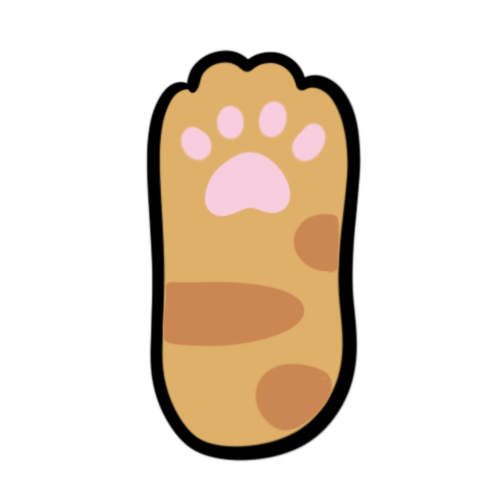
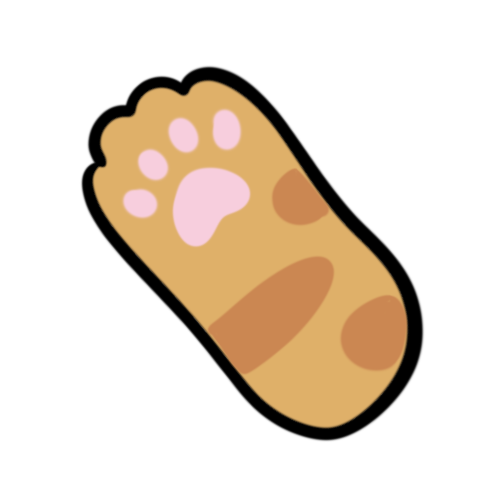
New Cursor

Changed region(s): [[0.15, 0.09, 0.87, 0.93]]

diff --git a/Assets/Assets/Scripts/Cursors/CursorManager.cs b/Assets/Assets/Scripts/Cursors/CursorManager.cs
@@ -1,0 +1,63 @@
+using System.Linq;
+using UnityEngine;
+
+namespace Assets.Scripts.Cursors
+{
+    public class CursorManager : MonoBehaviour
+    {
+        public static CursorManager Instance { get; private set; }
+
+        [SerializeField] private CustomCursor[] cursors;
+        
+        private CustomCursorID _currentCursor = CustomCursorID.Default;
+        private bool _cursorHidden;
+
+        private void Awake()
+        {
+            if (Instance && Instance != this)
+            {
+                Destroy(gameObject);
+                return;
+            }
+            
+            Instance = this;
+        }
+
+        public void SetCursor(CustomCursorID id)
+        {
+            if (_currentCursor == id) return;
+
+            switch (id)
+            {
+                case CustomCursorID.Hidden:
+                    HideCursor();
+                    return;
+                default:
+                    var cursor = cursors.FirstOrDefault(c => c.id == id);
+                    if (cursor == null) return;
+
+                    _currentCursor = id;
+                    Cursor.SetCursor(cursor.texture, cursor.hotspot, CursorMode.Auto);
+                    ShowCursor();
+                    return;
+            }
+        }
+        
+        private void HideCursor()
+        {
+            if (_cursorHidden) return;
+            
+            _currentCursor = CustomCursorID.Hidden;
+            _cursorHidden = true;
+            Cursor.visible = false;
+        }
+
+        private void ShowCursor()
+        {
+            if (!_cursorHidden) return;
+            
+            _cursorHidden = false;
+            Cursor.visible = true;
+        }
+    }
+}

diff --git a/Assets/Assets/Scripts/Aquarium/FishTanks/Interaction/FishInteractionController.cs b/Assets/Assets/Scripts/Aquarium/FishTanks/Interaction/FishInteractionController.cs
@@ -1,5 +1,6 @@
 using Assets.Scripts.Aquarium.Domain;
 using Assets.Scripts.Aquarium.FishTanks.Decor;
+using Assets.Scripts.Cursors;
 using UnityEngine;
 using UnityEngine.Events;
 using UnityEngine.InputSystem;
@@ -100,8 +101,11 @@ namespace Assets.Scripts.Aquarium.FishTanks.Interaction
         }
 
 
-        public void BeginFeedDrag() => 
+        public void BeginFeedDrag()
+        {
             SetMode(FishInteractionMode.FeedFish);
+            CursorManager.Instance.SetCursor(CustomCursorID.Hidden);
+        }
 
         public void EndFeedDrag(Vector2 screenPosition)
         {
@@ -110,6 +114,7 @@ namespace Assets.Scripts.Aquarium.FishTanks.Interaction
 
             _feedingHandler.TryFeed(screenPosition);
 
+            CursorManager.Instance.SetCursor(CustomCursorID.Paw);
             SetMode(FishInteractionMode.MoveFish);
         }
     }

diff --git a/Assets/Assets/Scripts/Management/GameManager.cs b/Assets/Assets/Scripts/Management/GameManager.cs
@@ -1,5 +1,6 @@
 using System.Collections;
 using Assets.Scripts.Audio.Music;
+using Assets.Scripts.Cursors;
 using Assets.Scripts.Data;
 using Assets.Scripts.Data.Persistence;
 using UnityEngine;
@@ -79,6 +80,8 @@ namespace Assets.Scripts.Management
         private void FadeIn()
         {
             if (!Transitioning) return;
+            
+            CursorManager.Instance.SetCursor(_currentScene.CursorID);
             
             SaveManager.Instance.Initialize();
             _dpm.FindDPOs();

diff --git a/Assets/Assets/Scripts/Management/SceneInfo.cs b/Assets/Assets/Scripts/Management/SceneInfo.cs
@@ -1,5 +1,6 @@
 using System;
 using Assets.Scripts.Audio.Music;
+using Assets.Scripts.Cursors;
 
 namespace Assets.Scripts.Management
 {
@@ -8,5 +9,6 @@ namespace Assets.Scripts.Management
     {
         public int BuildIndex;
         public AudioBGM BGM;
+        public CustomCursorID CursorID;
     }
 }

diff --git a/Assets/Assets/Scripts/Cursors/CustomCursor.cs b/Assets/Assets/Scripts/Cursors/CustomCursor.cs
@@ -1,0 +1,13 @@
+using System;
+using UnityEngine;
+
+namespace Assets.Scripts.Cursors
+{
+    [Serializable]
+    public class CustomCursor
+    {
+        public CustomCursorID id;
+        public Texture2D texture;
+        public Vector2 hotspot;
+    }
+}

diff --git a/Assets/Assets/Scripts/Cursors/CustomCursorID.cs b/Assets/Assets/Scripts/Cursors/CustomCursorID.cs
@@ -1,0 +1,10 @@
+namespace Assets.Scripts.Cursors
+{
+    public enum CustomCursorID
+    {
+        Hidden = -1,
+        Default = 0,
+        Paw = 1,
+        Food = 2
+    }
+}
